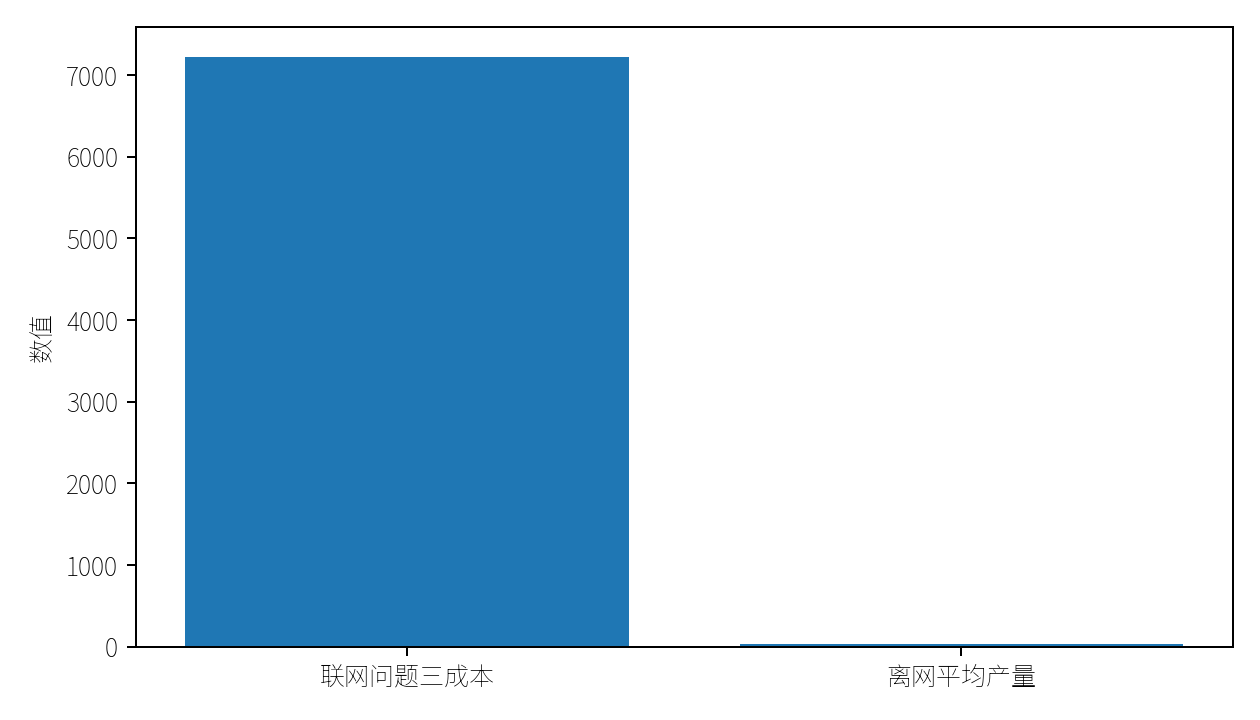
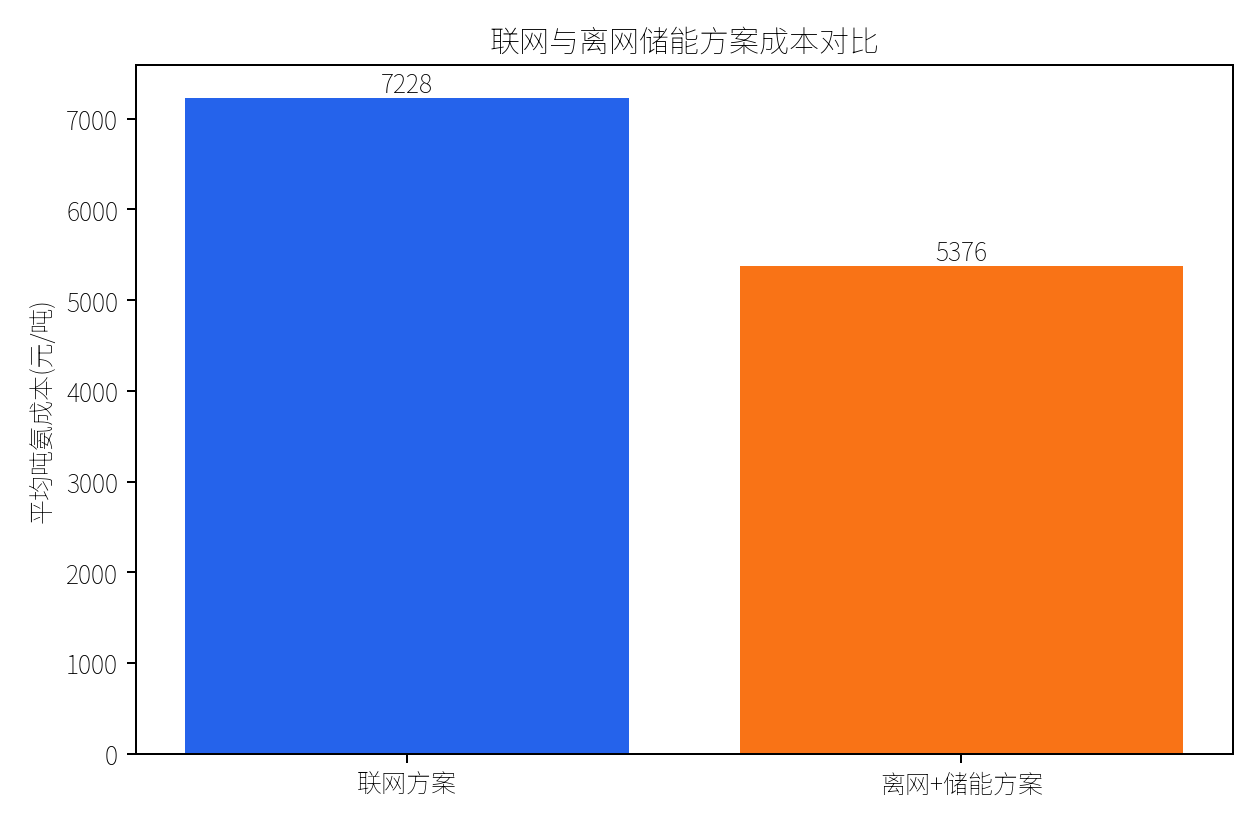
Fix misleading comparison figures

diff --git a/python/reporting.py b/python/reporting.py
@@ -748,7 +748,7 @@ def create_figures(
     _fig_flexible_value(figures_dir / "fig_06_flexible_load_value.png", compare_rows)
     _fig_storage_2d(figures_dir / "fig_07_storage_E_P_contour.png", storage_2d)
     _fig_storage_marginal(figures_dir / "fig_08_storage_marginal_value.png", scan_rows)
-    _fig_grid_compare(figures_dir / "fig_09_grid_vs_offgrid_cost.png", q3_rows, q4_rows)
+    _fig_grid_compare(figures_dir / "fig_09_grid_vs_offgrid_cost.png", q4_grid_vs)
     _fig_pareto(figures_dir / "fig_10_pareto_cost_compliance.png", q3_rows)
     _fig_topsis(figures_dir / "fig_11_topsis_radar.png", topsis_candidates)
     _fig_unit_cost_curve(figures_dir / "q2_typical_unit_cost_by_production.png", q2_summary, "问题二离散开停机吨氨成本")
@@ -1081,19 +1081,31 @@ def _fig_pareto(path, rows):
 
 
 def _fig_topsis(path, rows):
-    labels = ["成本", "达标", "产量", "储能", "电网"]
+    labels = ["成本", "达标", "产量", "少储能", "电网价值"]
     best = rows[0] if rows else None
-    values = [0, 0, 0, 0, 0]
-    if best:
+    values = [0.0] * len(labels)
+    if best and rows:
+        costs = np.array([float(r["unit_cost"]) for r in rows], dtype=float)
+        pass_days = np.array([float(r["full_pass_days"]) for r in rows], dtype=float)
+        nh3 = np.array([float(r["annual_NH3"]) for r in rows], dtype=float)
+        storage = np.array([float(r["storage_investment_proxy"]) for r in rows], dtype=float)
+        grid = np.array([max(float(r["grid_support_value"]), 0.0) for r in rows], dtype=float)
+
+        def benefit(value, values_arr):
+            lo, hi = float(np.min(values_arr)), float(np.max(values_arr))
+            return 1.0 if hi - lo < 1e-12 else (float(value) - lo) / (hi - lo)
+
+        def cost_benefit(value, values_arr):
+            lo, hi = float(np.min(values_arr)), float(np.max(values_arr))
+            return 1.0 if hi - lo < 1e-12 else (hi - float(value)) / (hi - lo)
+
         values = [
-            1.0 / max(float(best["unit_cost"]), 1e-9),
-            float(best["full_pass_days"]),
-            float(best["annual_NH3"]),
-            1.0 / (1.0 + float(best["storage_investment_proxy"])),
-            max(float(best["grid_support_value"]), 0.0),
+            cost_benefit(best["unit_cost"], costs),
+            benefit(best["full_pass_days"], pass_days),
+            benefit(best["annual_NH3"], nh3),
+            cost_benefit(best["storage_investment_proxy"], storage),
+            benefit(max(float(best["grid_support_value"]), 0.0), grid),
         ]
-        max_v = max(values) or 1.0
-        values = [v / max_v for v in values]
     angles = np.linspace(0, 2 * np.pi, len(labels), endpoint=False).tolist()
     values += values[:1]
     angles += angles[:1]
@@ -1103,6 +1115,8 @@ def _fig_topsis(path, rows):
     ax.fill(angles, values, alpha=0.25)
     ax.set_xticks(angles[:-1])
     ax.set_xticklabels(labels)
+    ax.set_ylim(0, 1)
+    ax.set_title("综合推荐方案归一化指标")
     _savefig(path)
 
 
@@ -1252,13 +1266,20 @@ def _fig_placeholder(path, title):
     _savefig(path)
 
 
-def _fig_grid_compare(path, q3_rows, q4_rows):
-    plt.figure(figsize=(7, 4))
-    if q3_rows and q4_rows:
-        grid_cost = np.mean([r["unit_cost"] for r in q3_rows if r["Q_day"] == 72])
-        off_prod = np.mean([r["daily_NH3_t"] for r in q4_rows])
-        plt.bar(["联网问题三成本", "离网平均产量"], [grid_cost, off_prod])
-    plt.ylabel("数值")
+def _fig_grid_compare(path, rows):
+    if not rows:
+        _fig_placeholder(path, "无联网/离网对比数据")
+        return
+    grid_cost = float(np.nanmean([float(r["grid_connected_unit_cost"]) for r in rows]))
+    offgrid_cost = float(np.nanmean([float(r["offgrid_unit_cost"]) for r in rows]))
+    labels = ["联网方案", "离网+储能方案"]
+    values = [grid_cost, offgrid_cost]
+    plt.figure(figsize=(7, 4.6))
+    bars = plt.bar(labels, values, color=["#2563EB", "#F97316"])
+    plt.ylabel("平均吨氨成本(元/吨)")
+    plt.title("联网与离网储能方案成本对比")
+    for bar, value in zip(bars, values):
+        plt.text(bar.get_x() + bar.get_width() / 2, value, f"{value:.0f}", ha="center", va="bottom")
     _savefig(path)
 
 
